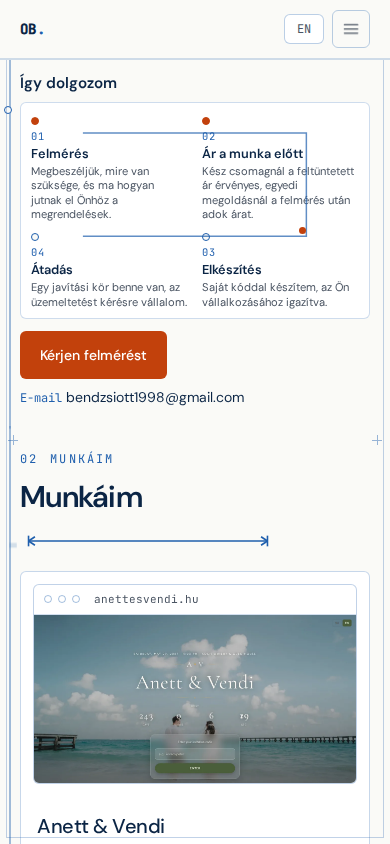
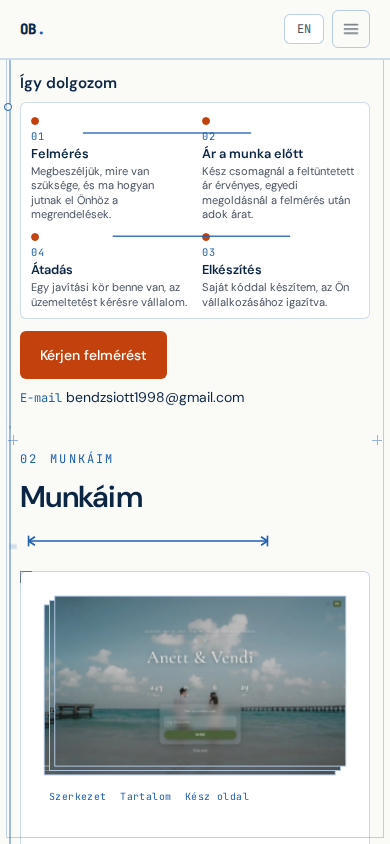
Refresh previews and show exploded-layer labels beside the screenshot
Keep Szerkezet, Tartalom and Kész oldal readable under the Anett and Vendi stack, and record mid-scroll frames for the process LEDs, live preview and finale.

diff --git a/src/components/visuals/ExplodedShot.tsx b/src/components/visuals/ExplodedShot.tsx
@@ -18,25 +18,31 @@ export function ExplodedShot({
   labels: { structure: string; content: string; finished: string }
 }) {
   const picture = (
-    <div className="explode-stage">
-      {LAYERS.map((key, index) => (
-        <figure
-          key={key}
-          className={`explode-layer explode-layer-${index}`}
-          style={{ '--layer': index } as CSSProperties}
-        >
-          <img
-            src={src}
-            alt={index === 2 ? alt : ''}
-            width={width}
-            height={height}
-            loading="lazy"
-            decoding="async"
-            aria-hidden={index !== 2}
-          />
-          <figcaption className="explode-label">{labels[key]}</figcaption>
-        </figure>
-      ))}
+    <div className="explode-wrap">
+      <div className="explode-stage">
+        {LAYERS.map((key, index) => (
+          <figure
+            key={key}
+            className={`explode-layer explode-layer-${index}`}
+            style={{ '--layer': index } as CSSProperties}
+          >
+            <img
+              src={src}
+              alt={index === 2 ? alt : ''}
+              width={width}
+              height={height}
+              loading="lazy"
+              decoding="async"
+              aria-hidden={index !== 2}
+            />
+          </figure>
+        ))}
+      </div>
+      <ul className="explode-legend">
+        {LAYERS.map((key) => (
+          <li key={key}>{labels[key]}</li>
+        ))}
+      </ul>
     </div>
   )
 

diff --git a/src/index.css b/src/index.css
@@ -972,6 +972,10 @@
     display: block;
   }
 
+  .explode-wrap {
+    display: block;
+  }
+
   .explode-stage {
     position: relative;
     aspect-ratio: 16 / 10;
@@ -995,17 +999,16 @@
     object-position: top center;
   }
 
-  .explode-label {
-    pointer-events: none;
-    position: absolute;
-    left: 0.4rem;
-    top: 0.35rem;
-    z-index: 2;
-    background: var(--color-background);
-    padding: 0.1rem 0.35rem;
+  .explode-legend {
+    display: flex;
+    flex-wrap: wrap;
+    gap: 0.45rem 0.85rem;
+    margin: 0.2rem 1rem 0.35rem;
+    padding: 0;
+    list-style: none;
     font-family: var(--font-mono);
-    font-size: 0.58rem;
-    letter-spacing: 0.06em;
+    font-size: 0.62rem;
+    letter-spacing: 0.04em;
     color: var(--motion-ink);
   }
 

diff --git a/src/context/ThemeContext.tsx b/src/context/ThemeContext.tsx
@@ -18,11 +18,11 @@ const ThemeContext = createContext<ThemeContextValue | null>(null)
 
 export function ThemeProvider({ children }: { children: ReactNode }) {
   useEffect(() => {
-    document.documentElement.classList.remove('dark')
+    document.documentElement?.classList.remove('dark')
   }, [])
 
   const toggleTheme = useCallback(() => {
-    document.documentElement.classList.remove('dark')
+    document.documentElement?.classList.remove('dark')
   }, [])
 
   const value = useMemo(

diff --git a/index.html b/index.html
@@ -24,7 +24,7 @@
     <title>Ott Benjámin, villamosmérnök és szoftverfejlesztő</title>
     <script>
       ;(function () {
-        document.documentElement.classList.remove('dark')
+        document.documentElement?.classList.remove('dark')
       })()
     </script>
   </head>
